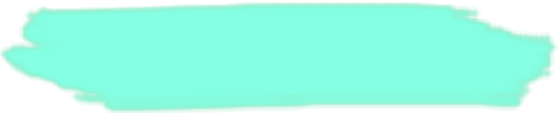
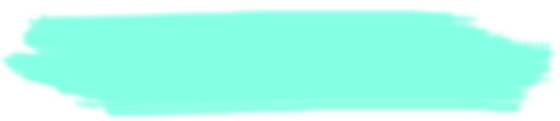
JS file

diff --git a/fostercare.js b/fostercare.js
@@ -1,0 +1,82 @@
+  
+function showAll(){
+	document.getElementById('more').style.visibility='visible';
+    document.getElementById('sA').style.visibility='visible';
+    document.getElementById('sA2').style.visibility='visible';
+	document.getElementById("testing").innerHTML = " ";
+    document.getElementById('s1').style.visibility='visible';
+    document.getElementById('s2').style.visibility='visible';
+    document.getElementById('s3').style.visibility='visible';
+    document.getElementById('s4').style.visibility='visible';
+    document.getElementById('s5').style.visibility='visible';
+    document.getElementById('s6').style.visibility='visible';
+}
+ function mInfo1(){
+    showAll();
+    document.getElementById("Lt").innerHTML = "Foster Parent - Relative ";
+    document.getElementById("Ld").innerHTML = "After you are placed in foster care, your state will try to notify your adult relatives. Most states prefer to have you live with relatives versus non-relatives. But before your relatives can get money from the foster system, they must first show they are “fit and willing” to take care of you. This may include a home visit and/or having all members of the household undergo a criminal background check. ";
+     document.getElementById('Li').src="Relative.png";
+         document.getElementById('head2').style.visibility='visible';
+      var audio = document.getElementById('fAudio');
+      audio.src="Group Home_Foster Youth Voices_When Home Feels Like A Prison_Noel Anaya.mp3";
+   }
+
+
+   function mInfo2(){
+
+   showAll();
+    
+ document.getElementById("testing").innerHTML = "<audio controls> <source src='Non-Relative Foster Family_Foster Youth Voices_Being In Foster Care Made Me Stronger_Melissa Beavers.mp3' tyle='audio/mpeg'>";
+    document.getElementById("Lt").innerHTML = "Foster Family - Non-Relative";
+    document.getElementById("Ld").innerHTML = "You may be placed with a foster parent who is not related to you. Adults who are at least 21`years old, have passed a background check, and are able to meet their basic financial needs are eligible to be foster parents. Technically, foster parents are not “paid.” They are “reimbursed” by the government for the cost of caring for you (<a href='http://www.childtrends.org/wp-content/uploads/2013/04/Foster-Care-Payment-Rate-Report.pdf' target='_blank'>rates vary by state</a>). In several states, there is a <a href='http://fcni.org/new_site/blog/rethinking-foster-parent-recruitment-retention' target='_blank'>shortage</a> of foster parents. It can be harder for <a href='https://www.childwelfare.gov/pubPDFs/s_disrup.pdf' target='_blank'>some kids</a>, like <a href='https://www.acf.hhs.gov/sites/default/files/cb/cbcongregatecare_brief.pdf' target='_blank' >older youth</a> and children with emotional and physical issues, to find foster families.";
+     document.getElementById('Li').src="Non-Relative.png";
+    document.getElementById('head2').style.visibility='visible';
+      
+
+          
+
+   }
+
+
+   function mInfo3(){
+   	showAll();
+    document.getElementById("testing").innerHTML = "<audio controls> <source src='Group Home_Foster Youth Voices_When Home Feels Like A Prison_Noel Anaya.mp3' tyle='audio/mpeg'>";
+
+    document.getElementById("Lt").innerHTML = "Group Home";
+    document.getElementById("Ld").innerHTML = "If you are placed in a foster group home, that means instead of living with a family, you live with up to 12 other foster kids with adults watching over you at all times. You could end up here for a number of reasons. Maybe you <a href='http://www1.uwindsor.ca/people/gorey/system/files/ChildYouthCareForum2016.pdf' target='_blank'> got in trouble with the law</a>,  or you have <a href='https://www.childwelfare.gov/topics/outofhome/group-residential-care/' target='_blank'>emotional, medical or mental health needs </a>. Group homes are usually not the first choice for foster kids, and some have been rocked by <a href='https://thinkprogress.org/how-south-carolinas-foster-care-system-is-failing-the-most-vulnerable-kids-fcf2c4d0dccf#.kcsstbk31' target='_blank'>scandals </a>. In 2016, <a href='https://www.propublica.org/documents/item/1698860-ccr-legislativereport' target='_blank'>California</a> passed legislation aiming to <a href='https://www.propublica.org/article/california-passes-group-home-legislation-foster-families-troubled-youth' target='_blank'>improve group homes and recruit more families</a> to take in foster kids.";
+     document.getElementById('Li').src="Group Home.png";
+         document.getElementById('head2').style.visibility='visible';
+
+
+          
+
+   }
+
+      function mInfo4(){
+      	showAll();
+
+    document.getElementById("Lt").innerHTML = "Institution";
+    document.getElementById("Ld").innerHTML = "It may sound clinical, but a foster care “institution” is pretty much a larger type of group home, for example, a treatment facility or emergency shelter.   If you are placed in a shelter, your stay may last anywhere from a <a href='http://ahum.assembly.ca.gov/sites/ahum.assembly.ca.gov/files/hearings/062811-BarthInstitutionsvFosterHomes.pdf' target='_blank'>couple of hours to several months</a>. Like group homes, institutions tend to be filled with <a href='http://ahum.assembly.ca.gov/sites/ahum.assembly.ca.gov/files/hearings/062811-BarthInstitutionsvFosterHomes.pdf' target='_blank'>older children</a>, who are harder to place with foster families.";
+     document.getElementById('Li').src="shelter.png";
+         document.getElementById('head2').style.visibility='visible';
+           
+   }
+
+function mInfo5(){
+	showAll();
+    
+	document.getElementById("testing").innerHTML = " ";
+    document.getElementById("Lt").innerHTML = "Preadoptive Home";
+    document.getElementById("Ld").innerHTML = "If you can’t go back to your biological parents, your case managers may try for adoption. Even if a family is interested in adopting you, you’ll need to do a “pre-adoptive placement” in their home as a kind of trial period.  Not all pre-adoptive placements lead to adoptions. <a href='http://www.ncsl.org/documents/cyf/movingchildrenoutofcare.pdf' target='_blank'>Ten to 25</a> percent of pre-adoptive placements <a href='http://www.ncsl.org/documents/cyf/movingchildrenoutofcare.pdf' target='_blank'>“disrupt”</a> before the adoption is finalized. And another ten percent of adoptions <a href='https://www.childwelfare.gov/pubPDFs/s_disrup.pdf' target='_blank'>dissolve</a>, which sends you back into foster care.";
+     document.getElementById('Li').src="Preadoptivehome.png";
+         document.getElementById('head2').style.visibility='visible';
+          
+   }
+    
+
+    function appearR(){
+      document.getElementById('r1p').src="money_Nope.png";
+      document.getElementById('r3p').src="lawNo.png";
+      document.getElementById('r4p').src="house_No.png";
+      document.getElementById("resources21").innerHTML = "Even if you live in a state that has extended foster care benefits to age 21, many of  these benefits will end once you “age out.” That means once you turn 21, you’ll have a court hearing to formally mark the end of your time in foster care. You’ll lose access to your state-guaranteed housing placement or stipend (though there may be local programs you can access). Under the provisions of the Affordable Care Act, you’ll retain access to health care until you’re 26. In states like California, you’ll continue to get priority enrollment in college until age 24. ";
+    }

diff --git a/index.html b/index.html
@@ -722,8 +722,7 @@ function showAll(){
 function mInfo5(){
 	showAll();
     
-document.getElementById("testing").innerHTML = " ";
-    
+	document.getElementById("testing").innerHTML = " ";
     document.getElementById("Lt").innerHTML = "Preadoptive Home";
     document.getElementById("Ld").innerHTML = "If you can’t go back to your biological parents, your case managers may try for adoption. Even if a family is interested in adopting you, you’ll need to do a “pre-adoptive placement” in their home as a kind of trial period.  Not all pre-adoptive placements lead to adoptions. <a href='http://www.ncsl.org/documents/cyf/movingchildrenoutofcare.pdf' target='_blank'>Ten to 25</a> percent of pre-adoptive placements <a href='http://www.ncsl.org/documents/cyf/movingchildrenoutofcare.pdf' target='_blank'>“disrupt”</a> before the adoption is finalized. And another ten percent of adoptions <a href='https://www.childwelfare.gov/pubPDFs/s_disrup.pdf' target='_blank'>dissolve</a>, which sends you back into foster care.";
      document.getElementById('Li').src="Preadoptivehome.png";

diff --git a/fosterStyle.css b/fosterStyle.css
@@ -136,7 +136,7 @@ li{
       }
 
 .h5bg{
-          background-image: url("tealStreak.png") ;
+          background-image: url("greenstreak.png") ;
         background-repeat: no-repeat;
         margin: auto;
         background-position: center;
